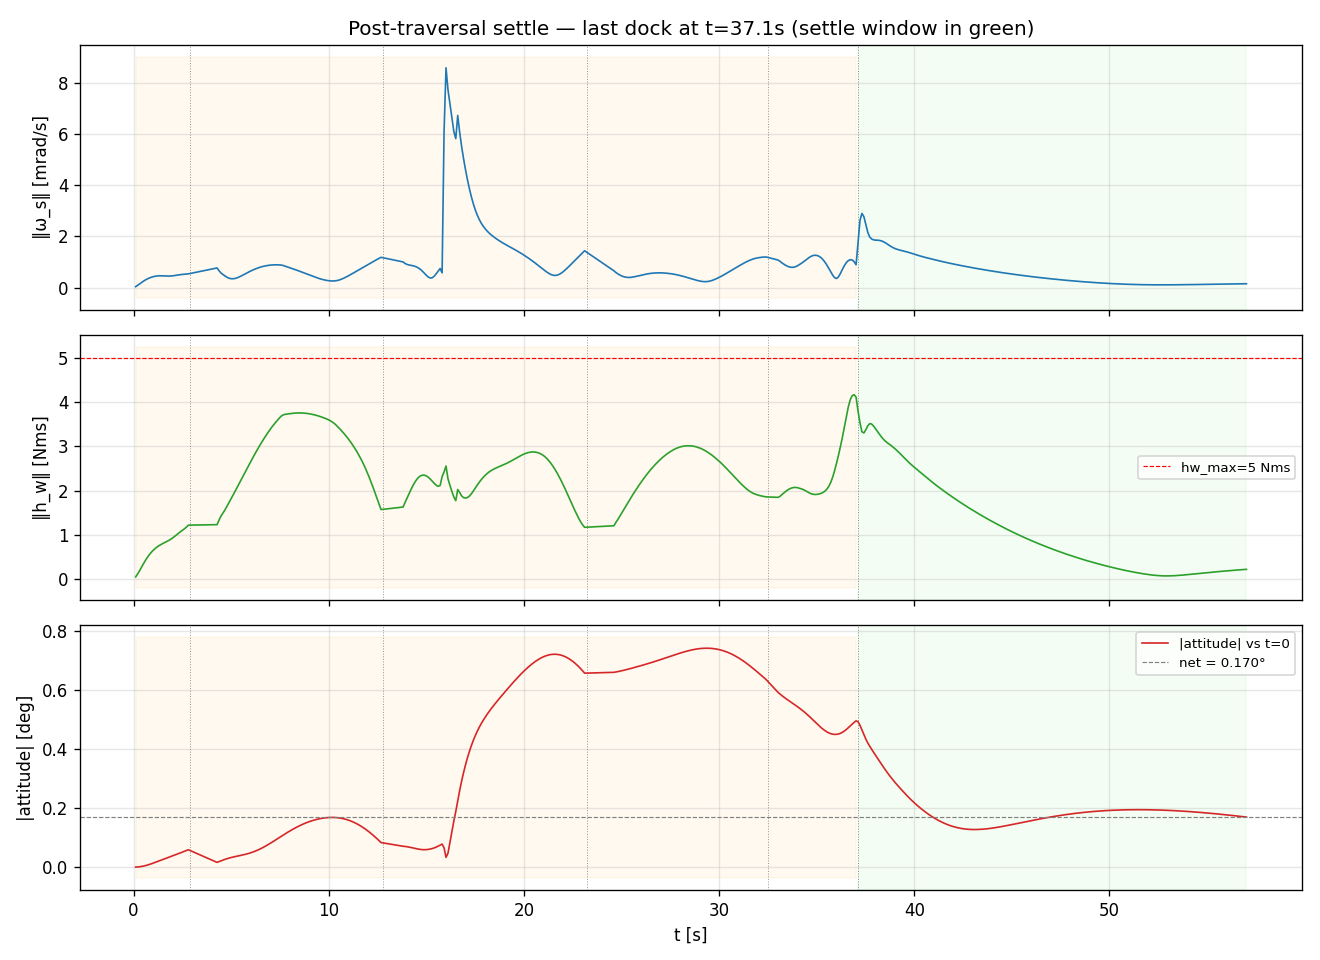
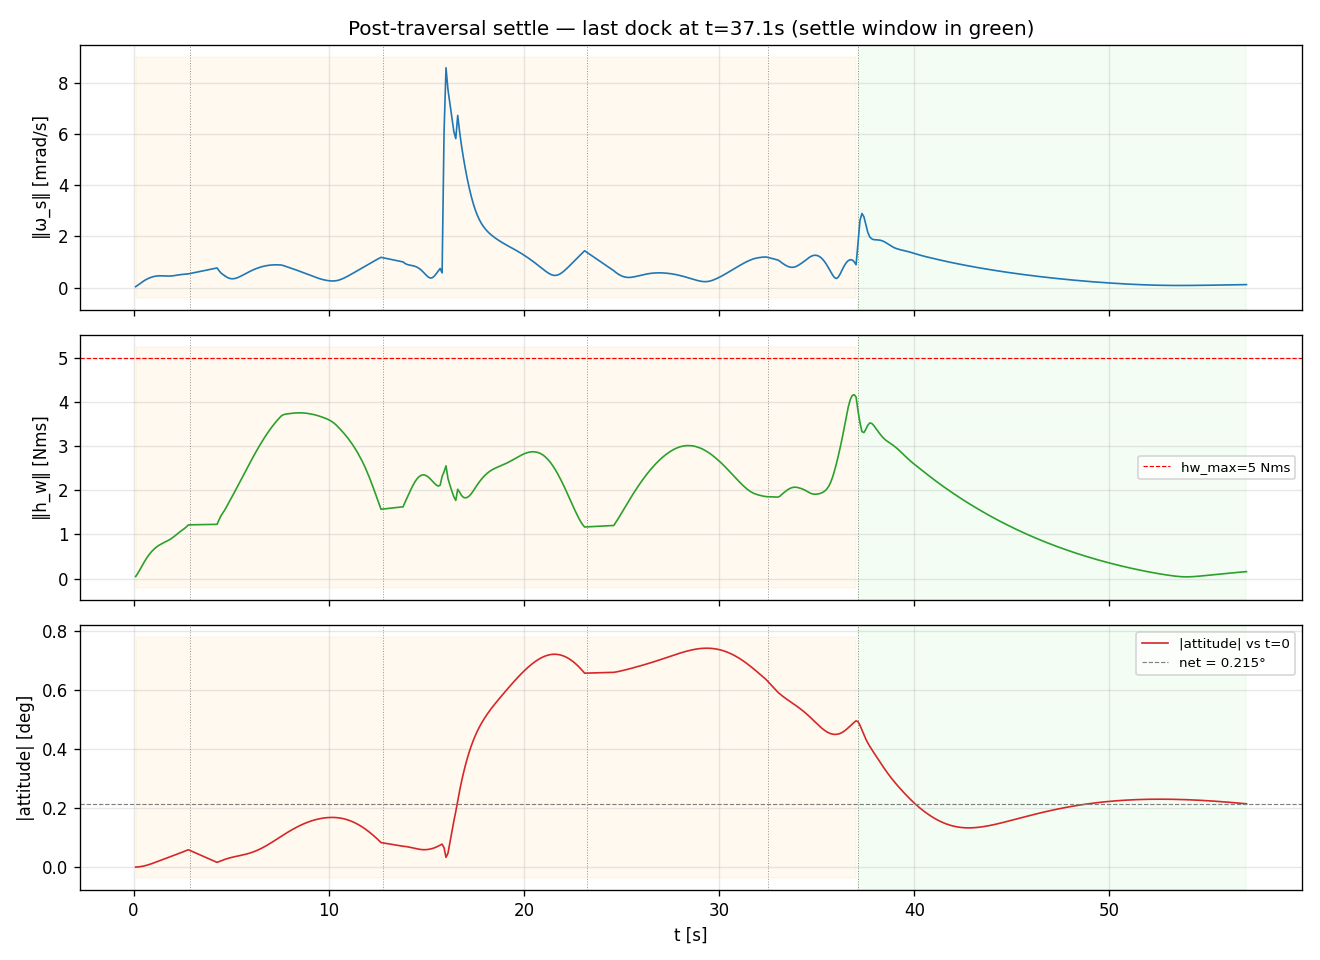
DS rework stage 3: trailing-DS torso ref = welded state, not dock-IK
Drops the both-tools-at-anchors IK target in the trailing-DS settle
block (sim_loop.py:1885+) in favor of the actual torso pose captured
from MJ at the moment of the last dock. The dock-IK is over-determined
once both welds are active and produces a target pose offset from
the physical welded equilibrium — the documented source of the
~3.86° persistent torso ori error.

Surgical scope:
  - config.py: ds_torso_ref_from_state (default False ⇒ legacy IK).
  - sim_loop.py: single gate added to the trailing-DS settle block;
    the existing _use_state branch (previously diag-only) becomes
    the live path when the new flag is on.
  - scripts/diag_cooperative_arms.py: enable the flag.

Canonical sim (legacy_pid_numerical, K_θ=36.3, K_ω=355.4):

  Metric              Main      +wrench-FF   +Stage 3 (this)
  -----------------   --------  -----------  ----------------
  All 5 docks         ✓         ✓            ✓
  Reversible peak     0.74°     0.743°       0.743°
  Irreversible        0.012°    0.170°       0.215°  (≈same)
  h_w settle end      0.13 Nms  0.22 Nms     0.158 Nms (better)
  e_torso_ori peak    3.86°     3.63°        2.28°   (40% better)
  e_torso_ori end     3.86°     3.63°        1.23°   (68% better)

The 1.23° residual is the structure attitude error at the capture
moment (settle-start θ_s = 0.493°): as AOCS drives θ_s → 0 the
structure rotates, the welded torso rotates with it, but the frozen
reference stays put. A re-sample of the reference once θ_s converges
[…]

diff --git a/crawlbot/simulation/sim_loop.py b/crawlbot/simulation/sim_loop.py
@@ -1889,10 +1889,15 @@ class SimulationLoop:
                     pq, pv = mujoco_to_pinocchio(
                         self.mj_data.qpos, self.mj_data.qvel)
                     rs_hold = self.robot.update(pq, pv)
-                    if _abort_ds and cfg.diag_freeze_torso_ref_on_abort:
-                        # H_DS2 diagnostic override — freeze the hold target
-                        # at the actual torso pose at the last SS sample,
-                        # bypassing the both-tools-at-anchors IK.
+                    # Stage 3 (DS memo §6.3, §7.4): when on, hold at the
+                    # actual welded state, not the dock-IK target. The
+                    # dock-IK is the documented source of the persistent
+                    # ~3.86° torso ori error (it solves both-tools-at-
+                    # anchors, over-determined once welds are active).
+                    _use_state = (cfg.ds_torso_ref_from_state
+                                  or (_abort_ds
+                                      and cfg.diag_freeze_torso_ref_on_abort))
+                    if _use_state:
                         self.torso_planner.set_hold(
                             rs_hold.oMf_torso.translation.copy(),
                             rs_hold.oMf_torso.rotation.copy(),

diff --git a/crawlbot/simulation/config.py b/crawlbot/simulation/config.py
@@ -98,6 +98,15 @@ class SimConfig:
     # unchanged in SS and in legacy DS configurations.
     aocs_use_wrench_ff_in_ds: bool = False
 
+    # Trailing-DS settle: hold the torso at the *actual welded state* at
+    # the last SS dock instead of the dock-configuration IK target. The
+    # IK target solves "both tools at anchors" which is over-determined
+    # once both welds are active and yields a torso pose that is offset
+    # from the physical welded equilibrium (the 3.86° persistent ori
+    # error). Freezing at current state collapses the WBC's torso 6D
+    # task error and stops the QP from pushing on the welds.
+    ds_torso_ref_from_state: bool = False
+
     # Diagnostic: zero wheel torque during DS (Mode B still runs in SS).
     aocs_off_in_ds: bool = False
 

diff --git a/scripts/diag_cooperative_arms.py b/scripts/diag_cooperative_arms.py
@@ -290,6 +290,10 @@ def main(legacy: bool, alpha_torso_lin: float, anchor_dx: float = 0.8,
     # See AOCS code path; AOCS uses tau_struct_ff = −Σ(r_Ci × f_i + τ_i)
     # from λ_qp when this is on and phase=='DS'.
     cfg.aocs_use_wrench_ff_in_ds = True
+    # Stage 3 — trailing-DS torso reference uses the actual welded
+    # state instead of the both-tools-at-anchors IK that gave the
+    # persistent ~3.86° torso ori error.
+    cfg.ds_torso_ref_from_state = True
     # alpha_torso_ang stays at default 500 (set by _make_m7_config).
     # 5 evenly-spaced snapshots per SS for the offline renderer.
     # FRAMES_PER_STEP=0 disables capture entirely (e.g. for tests).
